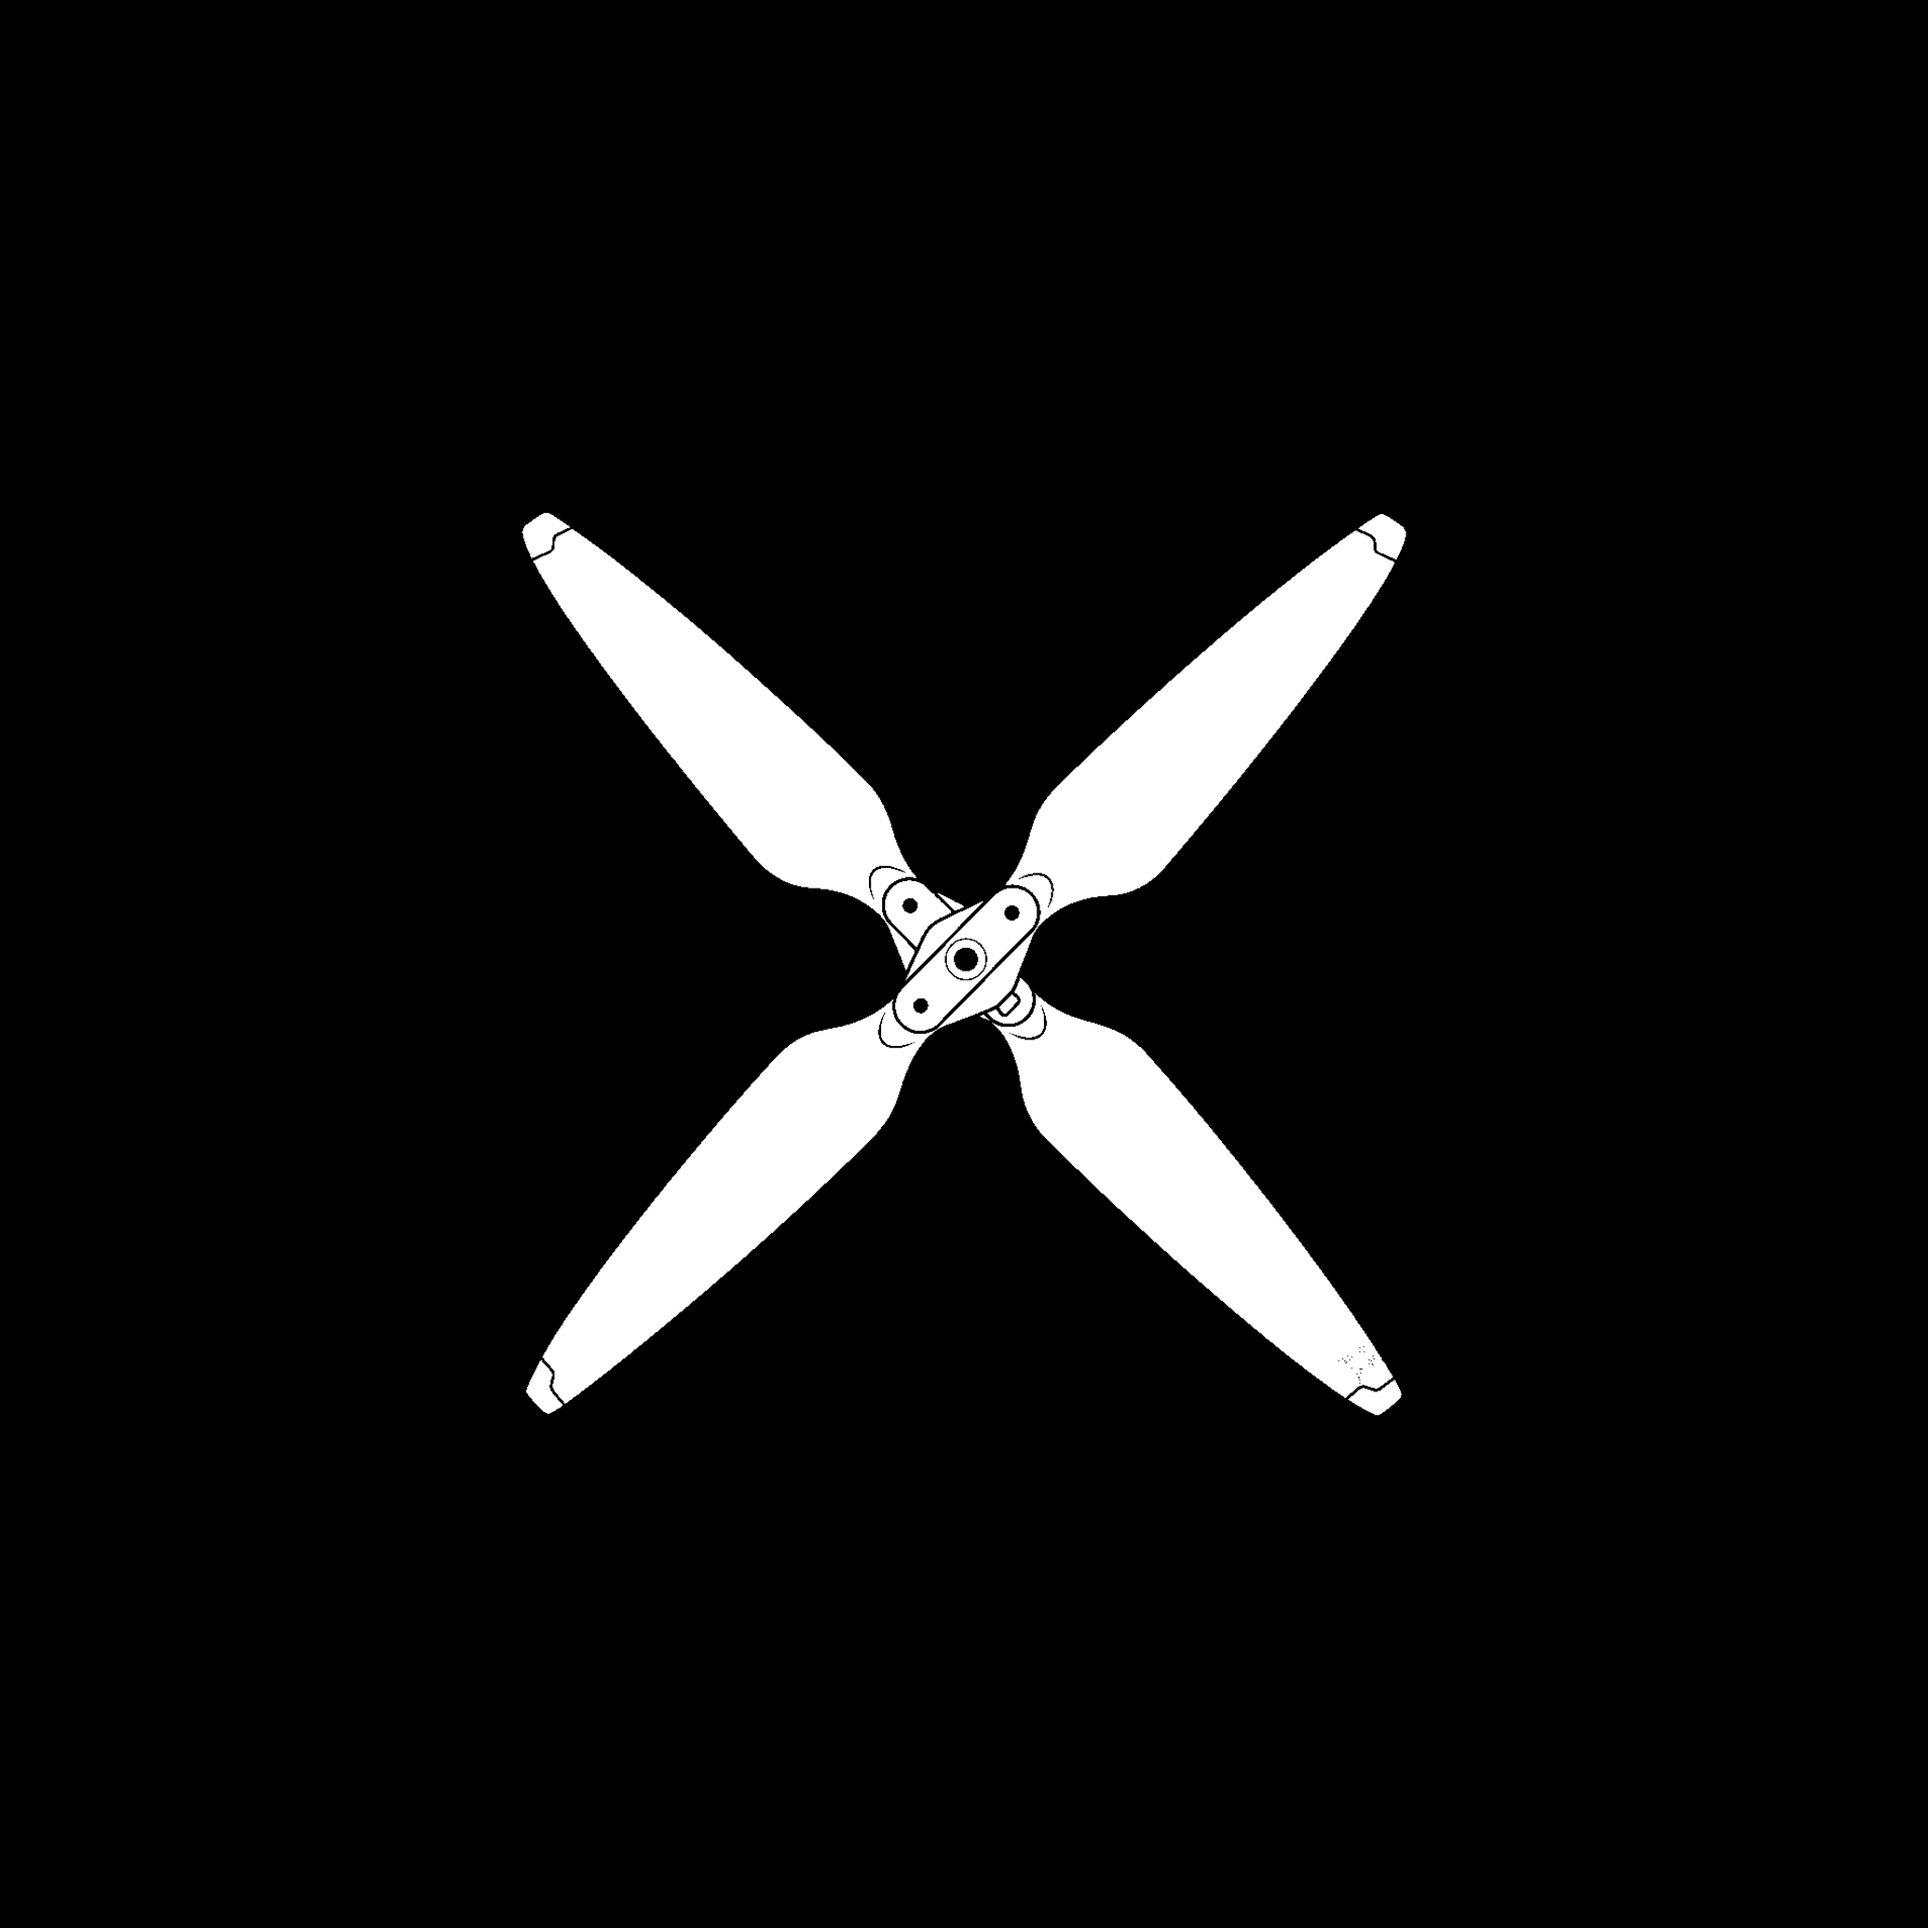
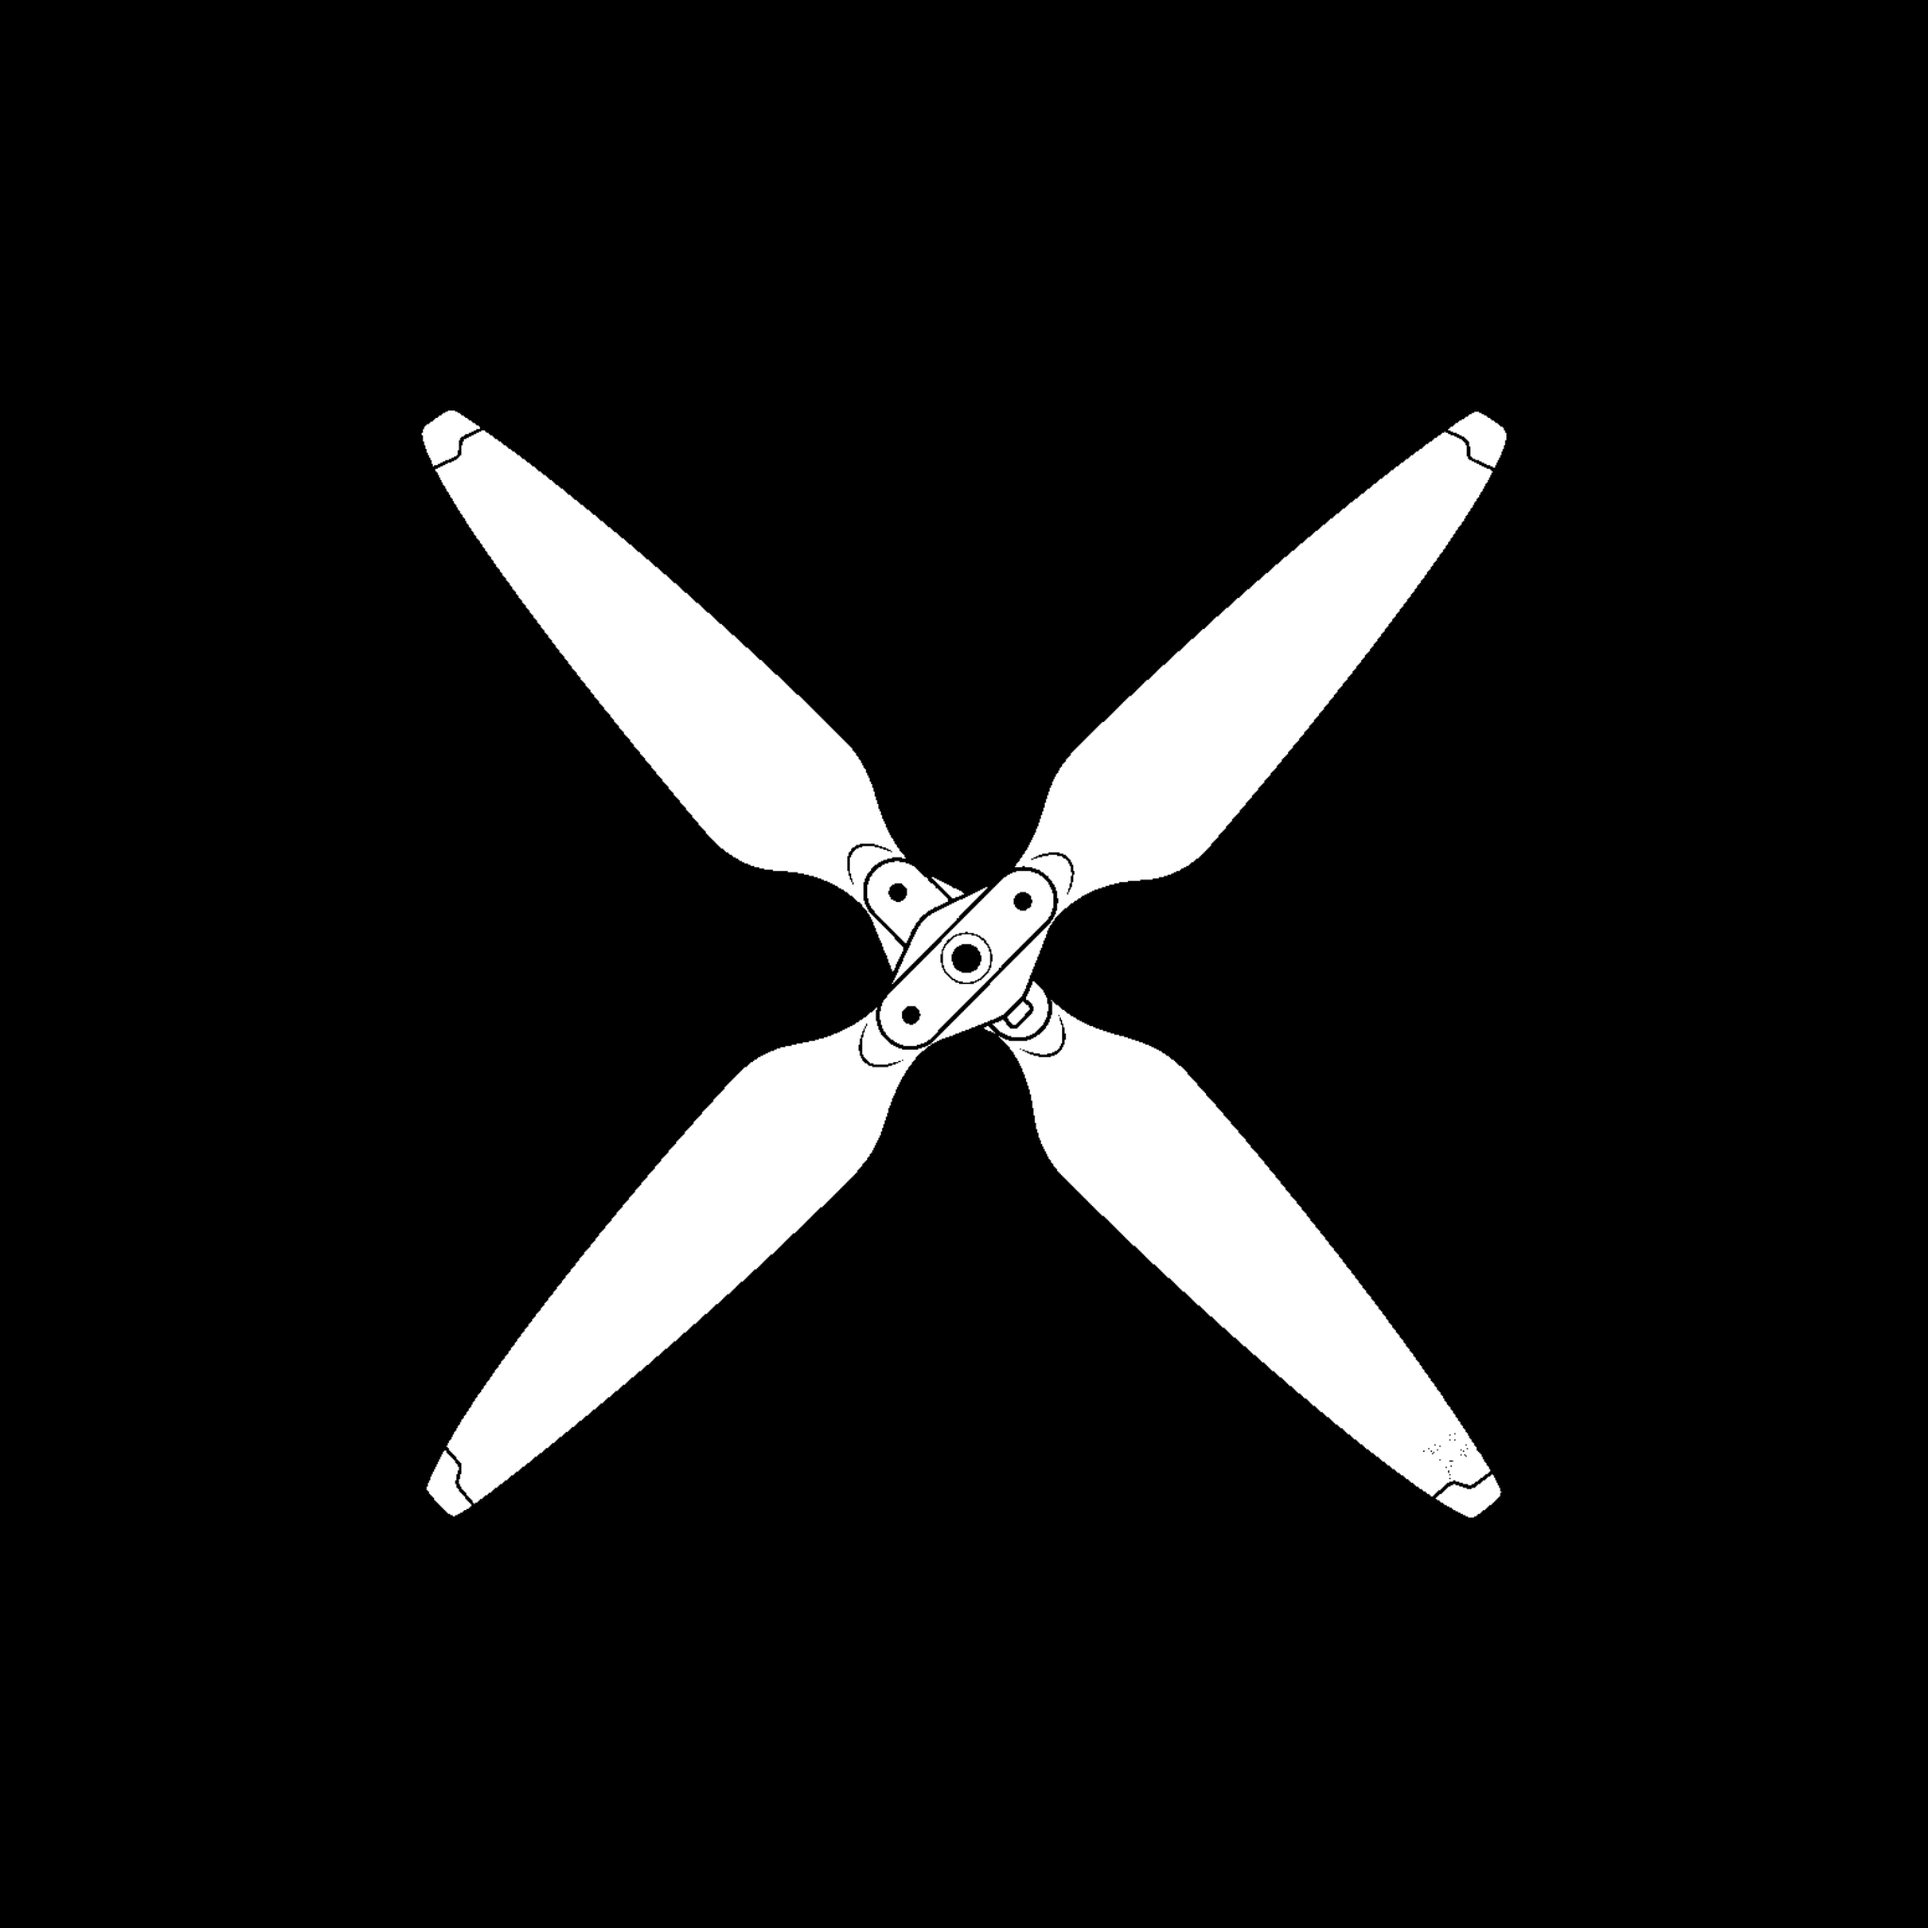
latest

diff --git a/index.html b/index.html
@@ -1,4 +1,4 @@
-<!doctype html>
+<!doctype html>
 <html lang="en">
   <head>
     <meta charset="UTF-8" />
@@ -351,7 +351,7 @@
     <header id="main-header" class="fixed inset-x-0 top-0 z-50 transition-all duration-700 bg-transparent py-4 pt-[calc(1rem+env(safe-area-inset-top,0px))]">
       <nav class="w-full max-w-none px-6 md:px-12 lg:px-16 flex items-center justify-between">
         <a href="#top" class="flex items-center text-white transition-opacity duration-300 hover:opacity-90 tracking-[0.16em] sm:tracking-[0.2em] uppercase font-normal text-base sm:text-lg select-none font-brand" aria-label="Gravity X">
-          <span class="leading-none tracking-[0.16em]">Gravity</span>
+          <span class="leading-none tracking-[0.16em]">GRAVITY</span>
           <span class="inline-flex items-center justify-center ml-[0.06em] self-center -translate-y-[0.06em]">
             <!-- Exact Propeller Recreation Image (White) -->
[1 lines of base64/hex data omitted]
@@ -758,7 +758,7 @@
       </section>
 
       <!-- BRAND WATERMARK: Massive full-width Gravity X typographic watermark (Centered, Futuristic Nasalization Font) -->
-      <section class="bg-background border-t border-border relative z-10 w-full flex items-center justify-center text-center" style="padding-top: 2.5rem; padding-bottom: 1.5rem; overflow-x: clip; overflow-y: visible;">
+      <section class="bg-background border-t border-border relative z-10 w-full flex flex-col items-center justify-center text-center" style="padding-top: 3rem; padding-bottom: 2.5rem; overflow-x: clip; overflow-y: visible;">
         <div style="width: 100%; display: flex; align-items: center; justify-content: center; text-align: center; margin: 0 auto; overflow: visible;">
           <span
             aria-label="Gravity X"
@@ -775,15 +775,21 @@
               display: inline-flex;
               align-items: center;
               justify-content: center;
+              text-transform: uppercase;
               text-align: center;
             "
           >
-            <span>Gravity</span>
+            <span>GRAVITY</span>
             <span class="inline-flex items-center justify-center" style="margin-left: 0.05em; transform: translateY(-0.06em);">
               <!-- Exact Propeller Recreation Image (Black) -->
[1 lines of base64/hex data omitted]
             </span>
           </span>
+        </div>
+        <div style="margin-top: 1.25rem; width: 100%; display: flex; align-items: center; justify-content: center; text-align: center;">
+          <p style="font-family: 'Space Grotesk', sans-serif; font-weight: 500; font-size: clamp(10px, 1.1vw, 17px); text-transform: uppercase; color: #18181b; margin: 0; white-space: nowrap; line-height: 1;">
+            A&nbsp;&nbsp;&nbsp;&nbsp;&nbsp;E&nbsp;&nbsp;&nbsp;&nbsp;&nbsp;R&nbsp;&nbsp;&nbsp;&nbsp;&nbsp;I&nbsp;&nbsp;&nbsp;&nbsp;&nbsp;A&nbsp;&nbsp;&nbsp;&nbsp;&nbsp;L&nbsp;&nbsp;&nbsp;&nbsp;&nbsp;&nbsp;&nbsp;&nbsp;&nbsp;&nbsp;C&nbsp;&nbsp;&nbsp;&nbsp;&nbsp;I&nbsp;&nbsp;&nbsp;&nbsp;&nbsp;N&nbsp;&nbsp;&nbsp;&nbsp;&nbsp;E&nbsp;&nbsp;&nbsp;&nbsp;&nbsp;M&nbsp;&nbsp;&nbsp;&nbsp;&nbsp;A&nbsp;&nbsp;&nbsp;&nbsp;&nbsp;T&nbsp;&nbsp;&nbsp;&nbsp;&nbsp;O&nbsp;&nbsp;&nbsp;&nbsp;&nbsp;G&nbsp;&nbsp;&nbsp;&nbsp;&nbsp;R&nbsp;&nbsp;&nbsp;&nbsp;&nbsp;A&nbsp;&nbsp;&nbsp;&nbsp;&nbsp;P&nbsp;&nbsp;&nbsp;&nbsp;&nbsp;H&nbsp;&nbsp;&nbsp;&nbsp;&nbsp;Y
+          </p>
         </div>
       </section>
     </main>
